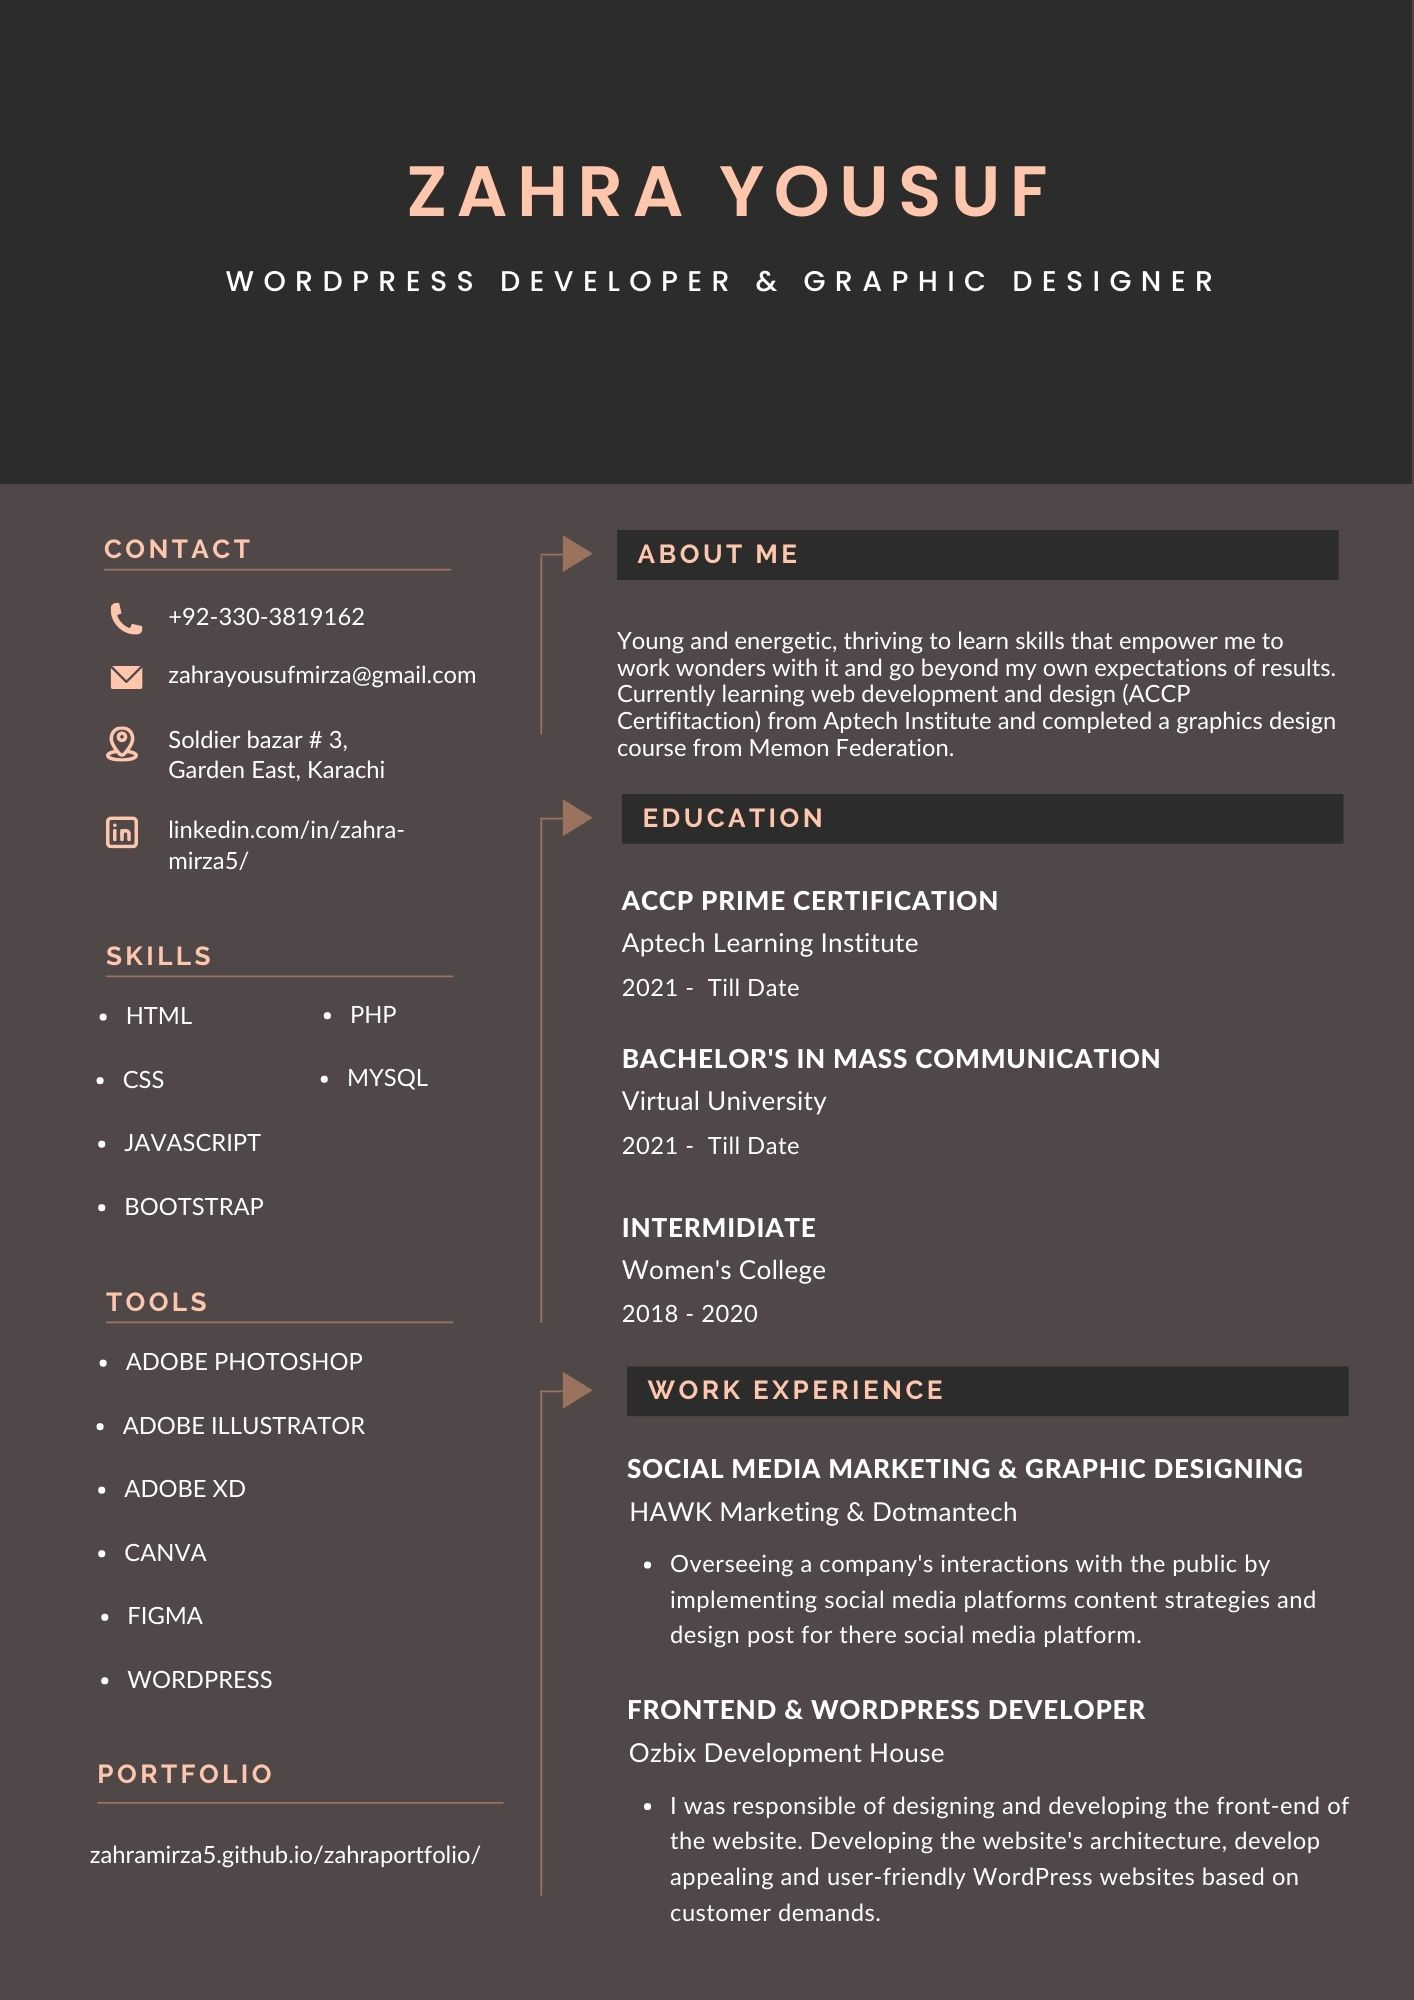
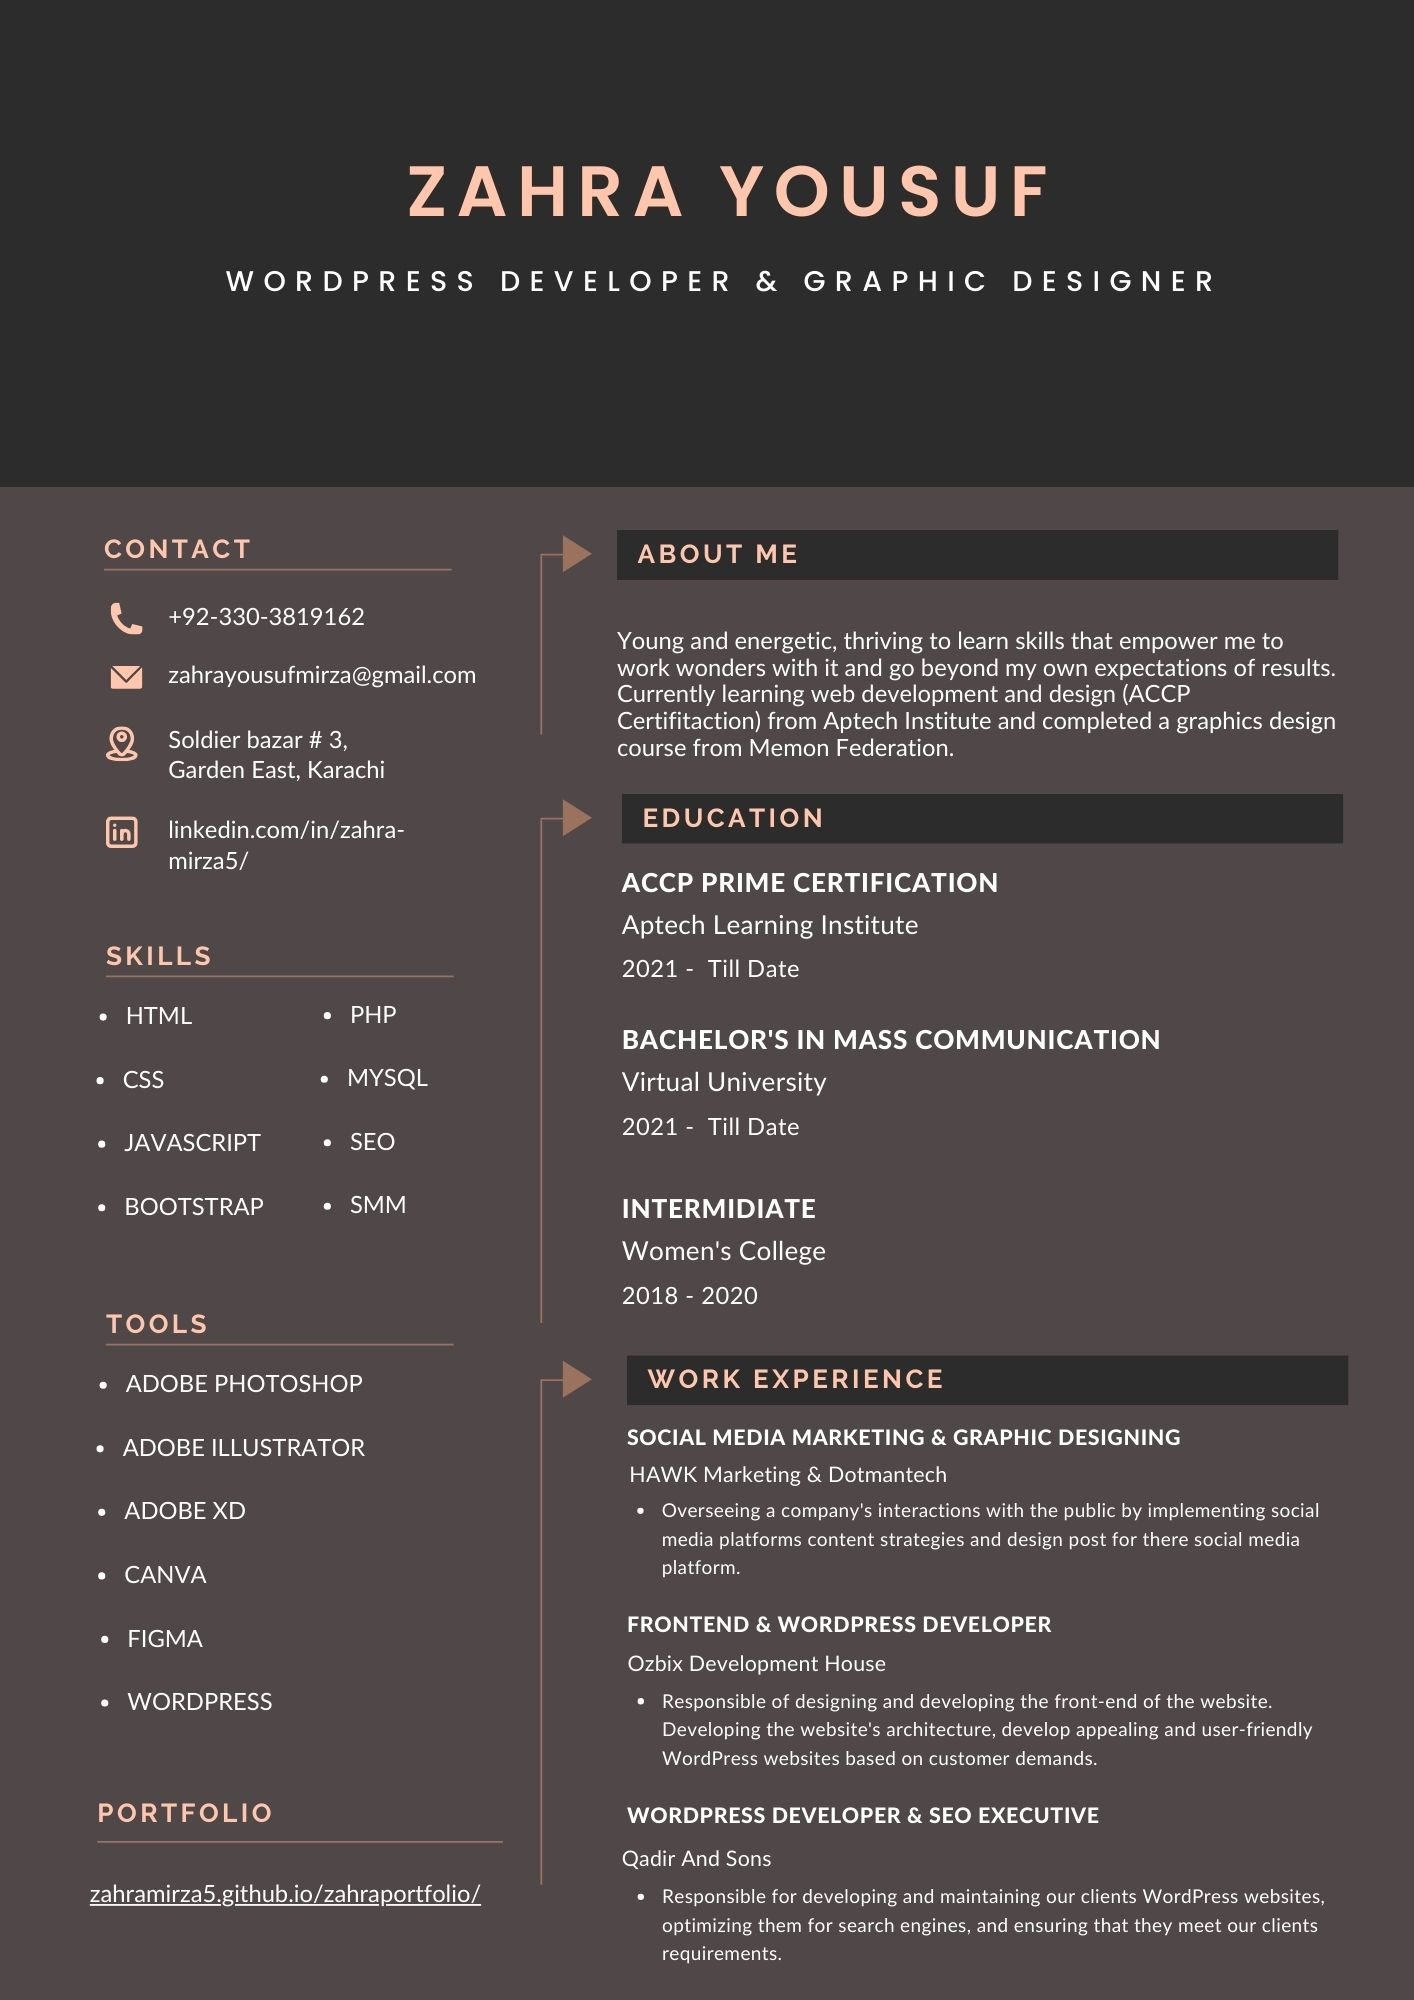
Add files via upload

diff --git a/index.html b/index.html
@@ -50,13 +50,13 @@
 <div class="right">
 <div class="social">
 <ul>
-<li><a href="https://www.facebook.com/zahra.mirza.547389" target="_blank"><img class="svg" src="img/svg/social/facebook.svg" alt="Facebook" /></a></li>
+<!-- <li><a href="https://www.facebook.com/zahra.mirza.547389" target="_blank"><img class="svg" src="img/svg/social/facebook.svg" alt="Facebook" /></a></li> -->
 
-<li><a href="https://www.linkedin.com/in/zahra-mirza5/" target="_blank"><img class="svg" src="img/svg/social/LinkedIn.svg" alt="" target="_blank"/></a></li>
+<li><a href="https://www.linkedin.com/in/zahra-mirza5/" target="_blank"><img style="width: 30px; height: 30px;" class="svg" src="img/svg/social/LinkedIn.png" alt="" target="_blank"/></a></li>
 
-<li><a href="https://www.instagram.com/zahra_mirza5" target="_blank"><img class="svg" src="img/svg/social/instagram.svg" alt="" /></a></li>
+<!-- <li><a href="https://www.instagram.com/zahra_mirza5" target="_blank"><img class="svg" src="img/svg/social/instagram.svg" alt="" /></a></li> -->
 
-<li><a href="https://www.behance.net/zahrayousufmirza" target="_blank"><img class="svg" src="img/svg/social/behance.png" alt="" /></a></li>
+<li><a href="https://www.behance.net/zahrayousufmirza" target="_blank"><img style="width: 30px; height: 30px;" class="svg" src="img/svg/social/behance.png" alt="" /></a></li>
 
 <!--- <a href="https://www.facebook.com/zahra.mirza.547389" target="_blank"><i style="margin-right: 25px; color: #3b5998;" class="fa fa-facebook fa-lg" aria-hidden="true"></i></a>
 
@@ -254,7 +254,7 @@
 <span>Aptech Learning Institute</span>
 </div>
 <div class="year">
-<span>2020 -  Till Date</span>
+<span>2020 -  2023</span>
 </div>
 </div>
 <div class="text">
@@ -282,15 +282,15 @@
 <div class="list_inner">
 <div class="short">
 <div class="job">
-<h3>INTERMIDIATE</h3>
-<span>Women's College</span>
+<h3>Graphic Designing</h3>
+<span>Memon Federation</span>
 </div>
 <div class="year">
-<span>2018 - 2020</span>
+<span>2021</span>
 </div>
 </div>
 <div class="text">
-<p></p>
+<p>The goal is to become a skilled designer and help businesses and individuals convey their messages effectively through visual communication.</p>
 </div>
 </div>
 </li>
@@ -318,6 +318,9 @@
 </div>
 </div>
 </li>
+
+
+
 <li>
 <div class="list_inner">
 <div class="short">
@@ -334,6 +337,27 @@
 </div>
 </div>
 </li>
+
+
+
+<li>
+    <div class="list_inner">
+    <div class="short">
+    <div class="job">
+    <h3>WORDPRESS DEVELOPER & SEO EXECUTIVE</h3>
+    <span>Qadir And Sons</span>
+    </div>
+    <!--<div class="year">
+    <span>2018 - running</span>
+    </div>-->
+    </div>
+    <div class="text">
+    <p>Responsible for developing and maintaining our clients WordPress websites,
+        optimizing them for search engines, and ensuring that they meet our clients
+        requirements</p>
+    </div>
+    </div>
+    </li>
 </ul>
 </div>
 </div>
@@ -404,7 +428,7 @@
 <li>
     <div class="list_inner">
     <div class="myCircle" data-value="0.65"></div>
-    <div class="title"><h3>MYSQL</h3></div>
+    <div class="title"><h3>SEO</h3></div>
     </div>
     </li>
 
@@ -450,7 +474,7 @@
 <div id="portfolio" class="iknow_tm_main_section">
 <div class="iknow_tm_portfolio">
 <div class="iknow_tm_main_title">
-<span>Resume</span>
+<span>Portfolio</span>
 <h3>My works that I did for clients</h3>
 </div>
 <div class="portfolio_filter">
@@ -770,8 +794,8 @@
 <li>
 <div class="list_inner">
 <span class="icon"><img class="svg" src="img/svg/squares.svg" alt="" /></span>
-<h3 class="title">Web Design</h3>
-<p class="text">If you are looking for a Professional, Certified and Well Communicated Front End Web Developer who can create your webiste so you are at the right place.</p>
+<h3 class="title">Frontend Web Development</h3>
+<p class="text">Transform your online presence with our Frontend Web Development service. We create stylish, user-friendly websites that work perfectly on all devices. Make a lasting impression online with our expertise.</p>
 <div class="hidden_content">
 <div class="service_informations">
 <div class="image">
@@ -786,8 +810,8 @@
 <li>
 <div class="list_inner">
 <span class="icon"><img class="svg" src="img/svg/physics.svg" alt="" /></span>
-<h3 class="title">WordPress Developer</h3>
-<p class="text">If you are looking for a Professional, Certified and Well Communicated WordPress Developer who can create your webiste so you are at the right place.</p>
+<h3 class="title">WordPress Development</h3>
+<p class="text">Unlock the power of WordPress with our Development service. We build feature-rich, customizable websites using the world's most popular content management system. Let us bring your online ideas to life effortlessly.</p>
 <div class="hidden_content">
 <div class="service_informations">
 <div class="image">
@@ -802,7 +826,7 @@
 <div class="list_inner">
 <span class="icon"><img class="svg" src="img/svg/web.svg" alt="" /></span>
 <h3 class="title">Graphic Design</h3>
-<p class="text">If you are looking for a Professional, Certified and Well Communicated Graphic Designer who can create your any kind of post so you are at the right place.</p>
+<p class="text">Elevate your brand with our Graphic Design service. We craft captivating visuals that leave a lasting impact. From logos to marketing materials, our designs speak volumes about your business.</p>
 <div class="hidden_content">
 <div class="service_informations">
 <div class="image">
@@ -816,8 +840,8 @@
 <li>
 <div class="list_inner">
 <span class="icon"><img class="svg" src="img/svg/user.svg" alt="" /></span>
-<h3 class="title">Social Media Manager</h3>
-<p class="text">If you are looking for a Professional, Certified and Well Communicated Social Media Manager who can handle your all kind of social accounts so you are at the right place.</p>
+<h3 class="title">Social Media Management</h3>
+<p class="text">Elevate your online presence with our Social Media Manager service. We'll handle your social media strategy, content, and engagement, so you can focus on what you do best. Let's make your brand shine in the digital world!</p>
 <div class="hidden_content">
 <div class="service_informations">
 <div class="image">
@@ -833,7 +857,7 @@
 <div class="list_inner">
 <span class="icon"><img class="svg" src="img/svg/briefcase.svg" alt="" /></span>
 <h3 class="title">UI UX Design</h3>
-<p class="text">If you are looking for a Professional, Certified and Well Communicated UI UX Designer who can create your website and mobile prototypes so you are at the right place.</p>
+<p class="text">Enhance user experiences with our UI/UX Design service. We create intuitive, visually appealing interfaces that keep users engaged and delighted. Transform your digital products with our design expertise.</p>
 <div class="hidden_content">
 <div class="service_informations">
 <div class="image">
@@ -847,8 +871,8 @@
 <li>
 <div class="list_inner">
 <span class="icon"><img class="svg" src="img/svg/writing_2.svg" alt="" /></span>
-<h3 class="title">PSD TO HTML, CSS & WordPress</h3>
-<p class="text">If you want any conversion like PSD, XD, FIGMA, PDF, file to HTML or CSS or Responsive Design so you are at the right place. I can provide you my best service.</p>
+<h3 class="title">SEO</h3>
+<p class="text">Boost your online visibility with our SEO service. We optimize your website to rank higher in search results, drive more organic traffic, and increase your online reach. Let's get your website noticed.</p>
 <div class="hidden_content">
 <div class="service_informations">
 <div class="image">
@@ -1140,9 +1164,9 @@
 </div>
 <div class="right">
 <ul>
-<li><a href="#">Terms &amp; Condition</a></li>
-<li><a href="#">Privacy Policy</a></li>
-<li><a href="#">FAQs</a></li>
+<li><a href="#resume">Resume</a></li>
+<li><a href="#portfolio">Portfolio</a></li>
+<li><a href="#service">Services</a></li>
 </ul>
 </div>
 </div>
